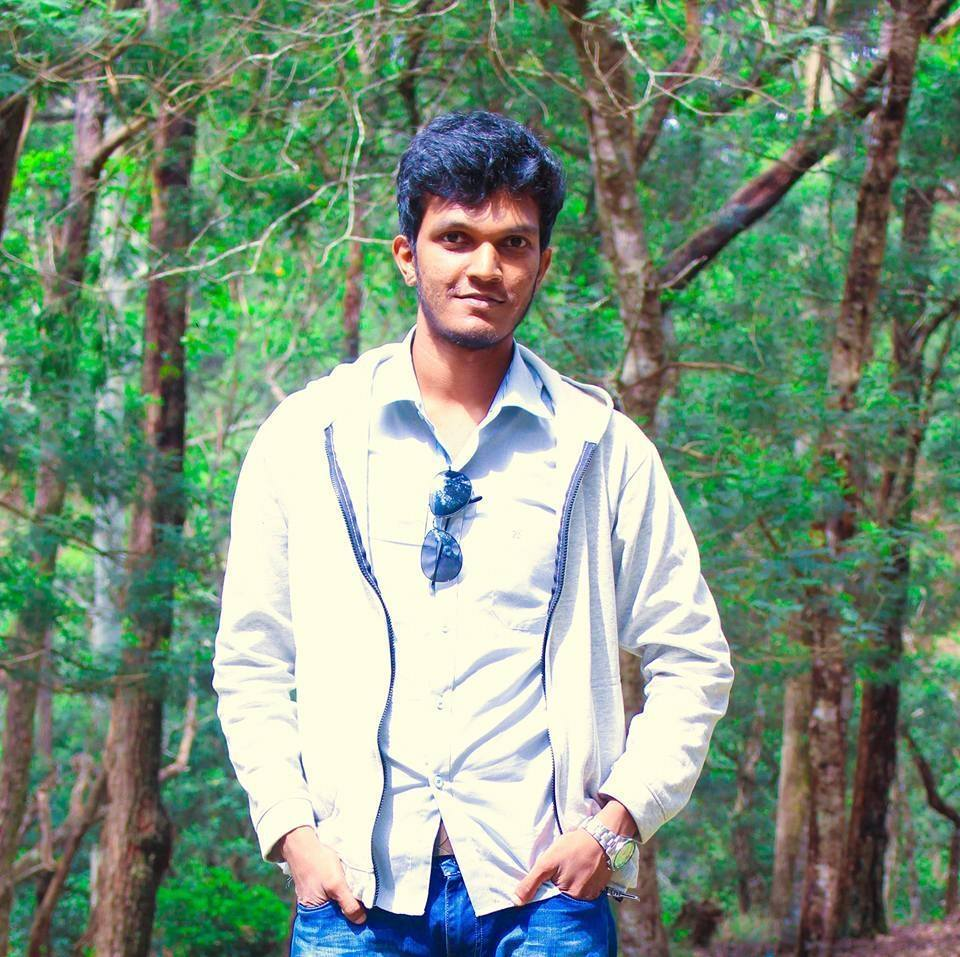
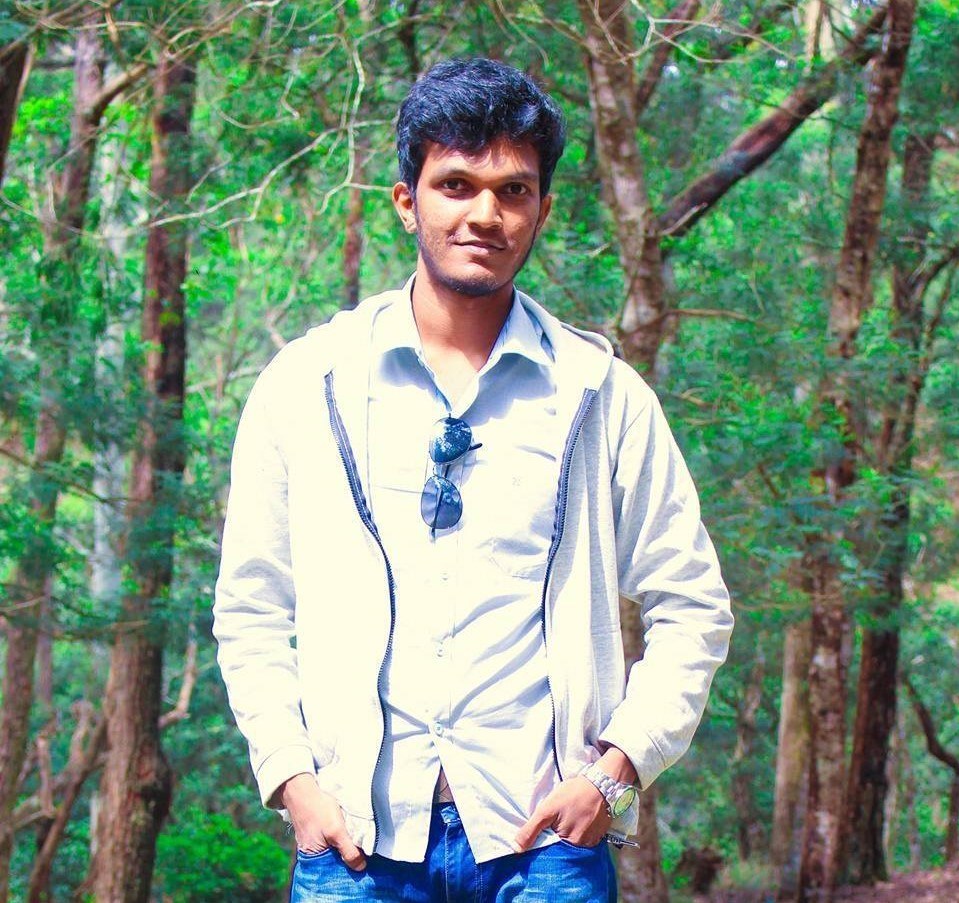
Improved interface

diff --git a/index.html b/index.html
@@ -54,14 +54,14 @@
             <a class="nav-link js-scroll" href="#about">About</a>
           </li>
           <li class="nav-item">
-            <a class="nav-link js-scroll" href="#service">Services</a>
+            <a class="nav-link js-scroll" href="#service">Skills</a>
           </li>
           <li class="nav-item">
-            <a class="nav-link js-scroll" href="#work">Work</a>
+            <a class="nav-link js-scroll" href="#work">Projects</a>
           </li>
-          <li class="nav-item">
+          <!-- <li class="nav-item">
             <a class="nav-link js-scroll" href="#blog">Blog</a>
-          </li>
+          </li> -->
           <li class="nav-item">
             <a class="nav-link js-scroll" href="#contact">Contact</a>
           </li>
@@ -72,7 +72,7 @@
   <!--/ Nav End /-->
 
   <!--/ Intro Skew Star /-->
-  <div id="home" class="intro route bg-image" style="background-image: url(img/intro-bg.jpg)">
+  <div id="home" class="intro route bg-image" style="background-image: url(img/intro-bg.jpg); background-position: top;">
     <div class="overlay-itro"></div>
     <div class="intro-content display-table">
       <div class="table-cell">
@@ -105,7 +105,7 @@
                       <p><span class="title-s">Name: </span> <span>Supun Sadeepa</span></p>
                       <p><span class="title-s">Profile: </span> <span>Software Engineer</span></p>
                       <p><span class="title-s">Email: </span> <span>spnsdp@gmail.com</span></p>
-                      <p><span class="title-s">Linkedin: </span> <span><a href="https://www.linkedin.com/in/supun-sadeepa-04185b157/">supun-sadeepa</a></span></p>
+                      <p><span class="title-s">Linkedin: </span> <span><a href="https://www.linkedin.com/in/supun-sadeepa-04185b157/" target="_blank">supun-sadeepa</a></span></p>
                       <p><span class="title-s">Phone: </span> <span>(+94) 76 766 4928</span></p>
                     </div>
                   </div>
@@ -146,14 +146,14 @@
                       About me
                     </h5>
                   </div>
-                  <p class="lead">
+                  <p class="lead"><b>
                     I am an enthusiastic and self motivated person who is seeking for new knowledge and have more experience. 
                     I am a person who have a great interest in the IT industry in Sri Lanka and in a global scale.
-                  </p>
-                  <p class="lead">
-                    I love the challegnes that I face everyday in my life and I am a team worker who is capable of working with any team that I am assigned with and
+                  </b></p>
+                  <p class="lead"><b>
+                    I love the challenges that I face everyday in my life and I am a team worker who is capable of working with any team that I am assigned with and
                      completing the desired task.
-                  </p>
+                  </b></p>
                 </div>
               </div>
             </div>
@@ -185,9 +185,7 @@
             <div class="service-content">
               <h2 class="s-title">Programming</h2>
               <p class="s-description text-center">
-                Lorem ipsum dolor sit amet consectetur adipisicing elit. Magni adipisci eaque autem fugiat! Quia,
-                provident vitae! Magni
-                tempora perferendis eum non provident.
+                <b>C | C++ | Python | PHP</b>
               </p>
             </div>
           </div>
@@ -200,9 +198,7 @@
             <div class="service-content">
               <h2 class="s-title">Web Development</h2>
               <p class="s-description text-center">
-                Lorem ipsum dolor sit amet consectetur adipisicing elit. Magni adipisci eaque autem fugiat! Quia,
-                provident vitae! Magni
-                tempora perferendis eum non provident.
+                <b>HTML | JavaScript | CSS</b>
               </p>
             </div>
           </div>
@@ -215,9 +211,7 @@
             <div class="service-content">
               <h2 class="s-title">UI/UX Design</h2>
               <p class="s-description text-center">
-                Lorem ipsum dolor sit amet consectetur adipisicing elit. Magni adipisci eaque autem fugiat! Quia,
-                provident vitae! Magni
-                tempora perferendis eum non provident.
+                <b>VueJS | jQUERY</b>
               </p>
             </div>
           </div>
@@ -230,9 +224,7 @@
             <div class="service-content">
               <h2 class="s-title">Web Hosting</h2>
               <p class="s-description text-center">
-                Lorem ipsum dolor sit amet consectetur adipisicing elit. Magni adipisci eaque autem fugiat! Quia,
-                provident vitae! Magni
-                tempora perferendis eum non provident.
+                <b>AWS | CI/CD | Server configuration</b>
               </p>
             </div>
           </div>
@@ -260,9 +252,7 @@
             <div class="service-content">
               <h2 class="s-title">Responsive Design</h2>
               <p class="s-description text-center">
-                Lorem ipsum dolor sit amet consectetur adipisicing elit. Magni adipisci eaque autem fugiat! Quia,
-                provident vitae! Magni
-                tempora perferendis eum non provident.
+                <b>Bootstrap</b>
               </p>
             </div>
           </div>
@@ -275,9 +265,7 @@
             <div class="service-content">
               <h2 class="s-title">Verison Control</h2>
               <p class="s-description text-center">
-                Lorem ipsum dolor sit amet consectetur adipisicing elit. Magni adipisci eaque autem fugiat! Quia,
-                provident vitae! Magni
-                tempora perferendis eum non provident.
+                <b>Git</b>
               </p>
             </div>
           </div>
@@ -504,7 +492,7 @@
   <!--/ Section Portfolio End /-->
 
   <!--/ Section Testimonials Star /-->
-  <div class="testimonials paralax-mf bg-image" style="background-image: url(img/overlay-bg.jpg)">
+  <!-- <div class="testimonials paralax-mf bg-image" style="background-image: url(img/overlay-bg.jpg)">
     <div class="overlay-mf"></div>
     <div class="container">
       <div class="row">
@@ -540,10 +528,10 @@
         </div>
       </div>
     </div>
-  </div>
+  </div> -->
 
   <!--/ Section Blog Star /-->
-  <section id="blog" class="blog-mf sect-pt4 route">
+  <!-- <section id="blog" class="blog-mf sect-pt4 route">
     <div class="container">
       <div class="row">
         <div class="col-sm-12">
@@ -654,7 +642,7 @@
         </div>
       </div>
     </div>
-  </section>
+  </section> -->
   <!--/ Section Blog End /-->
 
   <!--/ Section Contact-Footer Star /-->
@@ -669,7 +657,7 @@
                 <div class="col-md-6">
                   <div class="title-box-2">
                     <h5 class="title-left">
-                      Send Message Us
+                      Contact me
                     </h5>
                   </div>
                   <div>
@@ -716,23 +704,21 @@
                   </div>
                   <div class="more-info">
                     <p class="lead">
-                      Lorem ipsum dolor sit amet consectetur adipisicing elit. Facilis dolorum dolorem soluta quidem
-                      expedita aperiam aliquid at.
-                      Totam magni ipsum suscipit amet? Autem nemo esse laboriosam ratione nobis
-                      mollitia inventore?
+                      Interested in my profile or wish to contact me? Feel free to send an email or say hi to me anytime!
                     </p>
                     <ul class="list-ico">
-                      <li><span class="ion-ios-location"></span> 329 WASHINGTON ST BOSTON, MA 02108</li>
-                      <li><span class="ion-ios-telephone"></span> (617) 557-0089</li>
-                      <li><span class="ion-email"></span> contact@example.com</li>
+                      <!-- <li><span class="ion-ios-location"></span> 329 WASHINGTON ST BOSTON, MA 02108</li> -->
+                      <li><span class="ion-ios-telephone"></span> (+94) 76 766 4928</li>
+                      <li><span class="ion-email"></span> ssadeepa7@gmail.com</li>
                     </ul>
                   </div>
                   <div class="socials">
                     <ul>
-                      <li><a href=""><span class="ico-circle"><i class="ion-social-facebook"></i></span></a></li>
-                      <li><a href=""><span class="ico-circle"><i class="ion-social-instagram"></i></span></a></li>
-                      <li><a href=""><span class="ico-circle"><i class="ion-social-twitter"></i></span></a></li>
-                      <li><a href=""><span class="ico-circle"><i class="ion-social-pinterest"></i></span></a></li>
+                      <li><a href="https://www.facebook.com/supun.sadeepa" target="_blank"><span class="ico-circle"><i class="ion-social-facebook"></i></span></a></li>
+                      <li><a href="https://www.instagram.com/supun.sadeepa/" target="_blank"><span class="ico-circle"><i class="ion-social-instagram"></i></span></a></li>
+                      <li><a href="https://twitter.com/Supun_ssW" target="_blank"><span class="ico-circle"><i class="ion-social-twitter"></i></span></a></li>
+                      <li><a href="https://github.com/SupunSSW" target="_blank"><span class="ico-circle"><i class="ion-social-github"></i></span></a></li>
+                      <!-- <li><a href=""><span class="ico-circle"><i class="ion-social-pinterest"></i></span></a></li> -->
                     </ul>
                   </div>
                 </div>
@@ -747,7 +733,7 @@
         <div class="row">
           <div class="col-sm-12">
             <div class="copyright-box">
-              <p class="copyright">&copy; Copyright <strong>DevFolio</strong>. All Rights Reserved</p>
+              <p class="copyright">&copy; Copyright <strong>SupunSSW</strong>. All Rights Reserved</p>
               <div class="credits">
                 <!--
                   All the links in the footer should remain intact.
@@ -755,7 +741,7 @@
                   Licensing information: https://bootstrapmade.com/license/
                   Purchase the pro version with working PHP/AJAX contact form: https://bootstrapmade.com/buy/?theme=DevFolio
                 -->
-                Designed by <a href="https://bootstrapmade.com/">BootstrapMade</a>
+                <!-- Designed by <a href="https://bootstrapmade.com/">BootstrapMade</a> -->
               </div>
             </div>
           </div>
